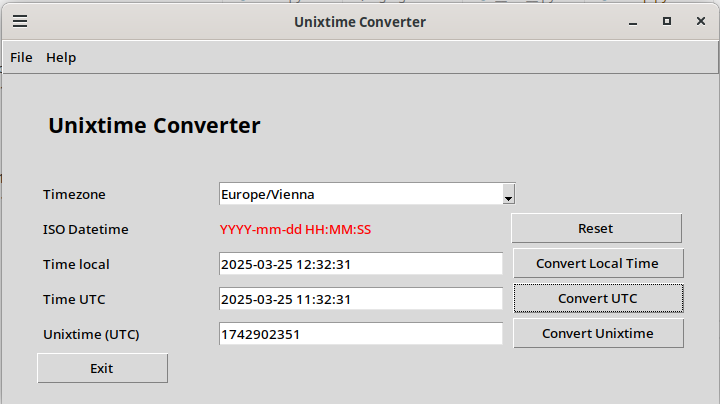
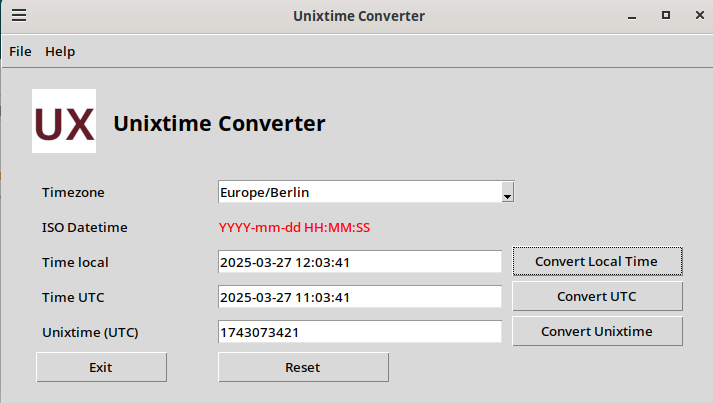
Add files via upload

diff --git a/license.html b/license.html
@@ -13,70 +13,5 @@
 
         <p>THE SOFTWARE IS PROVIDED “AS IS”, WITHOUT WARRANTY OF ANY KIND, EXPRESS OR IMPLIED, INCLUDING BUT NOT LIMITED TO THE WARRANTIES OF MERCHANTABILITY, FITNESS FOR A PARTICULAR PURPOSE AND NONINFRINGEMENT. IN NO EVENT SHALL THE AUTHORS OR COPYRIGHT HOLDERS BE LIABLE FOR ANY CLAIM, DAMAGES OR OTHER LIABILITY, WHETHER IN AN ACTION OF CONTRACT, TORT OR OTHERWISE, ARISING FROM, OUT OF OR IN CONNECTION WITH THE SOFTWARE OR THE USE OR OTHER DEALINGS IN THE SOFTWARE.</p>
 
-
-        <h4>Python Software Foundation License Version 2</h4>
-
-        <p>1. This LICENSE AGREEMENT is between the Python Software Foundation ("PSF"), and
-            the Individual or Organization ("Licensee") accessing and otherwise using this
-            software ("Python") in source or binary form and its associated documentation.</p>
-
-        <p>2. Subject to the terms and conditions of this License Agreement, PSF hereby
-            grants Licensee a nonexclusive, royalty-free, world-wide license to reproduce,
-            analyze, test, perform and/or display publicly, prepare derivative works,
-            distribute, and otherwise use Python alone or in any derivative
-            version, provided, however, that PSF's License Agreement and PSF's notice of
-            copyright, i.e., "Copyright © 2001-2024 Python Software Foundation; All Rights
-            Reserved" are retained in Python alone or in any derivative version
-            prepared by Licensee.</p>
-
-        <p>3. In the event Licensee prepares a derivative work that is based on or
-            incorporates Python or any part thereof, and wants to make the
-            derivative work available to others as provided herein, then Licensee hereby
-            agrees to include in any such work a brief summary of the changes made to Python.</p>
-
-        <p>4. PSF is making Python available to Licensee on an "AS IS" basis.
-            PSF MAKES NO REPRESENTATIONS OR WARRANTIES, EXPRESS OR IMPLIED.  BY WAY OF
-            EXAMPLE, BUT NOT LIMITATION, PSF MAKES NO AND DISCLAIMS ANY REPRESENTATION OR
-            WARRANTY OF MERCHANTABILITY OR FITNESS FOR ANY PARTICULAR PURPOSE OR THAT THE
-            USE OF PYTHON WILL NOT INFRINGE ANY THIRD PARTY RIGHTS.</p>
-
-        <p>5. PSF SHALL NOT BE LIABLE TO LICENSEE OR ANY OTHER USERS OF PYTHON
-            FOR ANY INCIDENTAL, SPECIAL, OR CONSEQUENTIAL DAMAGES OR LOSS AS A RESULT OF
-            MODIFYING, DISTRIBUTING, OR OTHERWISE USING PYTHON, OR ANY DERIVATIVE
-            THEREOF, EVEN IF ADVISED OF THE POSSIBILITY THEREOF.</p>
-
-        <p>6. This License Agreement will automatically terminate upon a material breach of
-            its terms and conditions.</p>
-
-        <p>7. Nothing in this License Agreement shall be deemed to create any relationship
-            of agency, partnership, or joint venture between PSF and Licensee.  This License
-            Agreement does not grant permission to use PSF trademarks or trade name in a
-            trademark sense to endorse or promote products or services of Licensee, or any
-            third party.</p>
-
-        <p>
-            8. By copying, installing or otherwise using Python, Licensee agrees
-               to be bound by the terms and conditions of this License Agreement.</p>
-
-        <h4>Tk license  attribution</h4>
-
-        <p>This software is copyrighted by the Regents of the University of California, Sun Microsystems, Inc., Scriptics Corporation, ActiveState Corporation, Apple Inc. and other parties. The following terms apply to all files associated with the software unless explicitly disclaimed in individual files.</p>
-    
-        <p>The authors hereby grant permission to use, copy, modify, distribute, and license this software and its documentation for any purpose, provided that existing copyright notices are retained in all copies and that this notice is included verbatim in any distributions. No written agreement, license, or royalty fee is required for any of the authorized uses. Modifications to this software may be copyrighted by their authors and need not follow the licensing terms described here, provided that the new terms are clearly indicated on the first page of each file where they apply.</p>
-
-        <p>IN NO EVENT SHALL THE AUTHORS OR DISTRIBUTORS BE LIABLE TO ANY PARTY FOR DIRECT, INDIRECT, SPECIAL, INCIDENTAL, OR CONSEQUENTIAL DAMAGES ARISING OUT OF THE USE OF THIS SOFTWARE, ITS DOCUMENTATION, OR ANY DERIVATIVES THEREOF, EVEN IF THE AUTHORS HAVE BEEN ADVISED OF THE POSSIBILITY OF SUCH DAMAGE.</p>
-
-        <p>THE AUTHORS AND DISTRIBUTORS SPECIFICALLY DISCLAIM ANY WARRANTIES, INCLUDING, BUT NOT LIMITED TO, THE IMPLIED WARRANTIES OF MERCHANTABILITY, FITNESS FOR A PARTICULAR PURPOSE, AND NON-INFRINGEMENT. THIS SOFTWARE IS PROVIDED ON AN “AS IS” BASIS, AND THE AUTHORS AND DISTRIBUTORS HAVE NO OBLIGATION TO PROVIDE MAINTENANCE, SUPPORT, UPDATES, ENHANCEMENTS, OR MODIFICATIONS.</p>
-
-        <p>GOVERNMENT USE: If you are acquiring this software on behalf of the U.S. government, the Government shall have only “Restricted Rights” in the software and related documentation as defined in the Federal Acquisition Regulations (FARs) in Clause 52.227.19 (c) (2). If you are acquiring the software on behalf of the Department of Defense, the software shall be classified as “Commercial Computer Software” and the Government shall have only “Restricted Rights” as defined in Clause 252.227-7013 (b) (3) of DFARs. Notwithstanding the foregoing, the authors grant the U.S. Government and others acting in its behalf permission to use and distribute the software in accordance with the terms specified in this license.</p>
-
-        <h4>pytz</h4>
-
-        <p>Provided by the MIT license</p>
-
-        <h4>tkhtmlview</h4>
-
-        <p>Provided by the MIT license</p>
-
     </body
 </html>

diff --git a/setup.py b/setup.py
@@ -3,36 +3,36 @@ from setuptools import setup
 
 setup(
     name='unixtime-converter',
-    version='1.0.3',
+    version='1.0.4',
     author='Franz Wiesinger',
     author_email='py@roadrunnerserver.com',
     description='application for converting local time or UTC into Unixtime \
         and viceversa',
     url='https://docs.roadrunnerserver.com/unixtime/html/index.html',
-    license='MIT license',
+    # license_files=('LICENSE.md'),
     packages=[
         'res',
         'tests'
     ],
     install_requires=[
-        'datetime', 'tkinter', 'pytz', 'zoneinfo', 'tkhtmlview'
+        'datetime', 'pytz', 'tkhtmlview'
     ],
-    python_requires='> 3.7',
+    python_requires='>= 3.9',
     entry_points={
-        'console_scripts': [
+        'gui_scripts': [
             'unixtime = unixtime.__main__:unixtime'
         ]
     },
     classifiers=[
+        'Development Status :: 5 - Production/Stable',
         'Environment :: X11 Applications',
         'Environment :: Win32 (MS Windows)',
         'Intended Audience :: Customer Service',
         'Intended Audience :: Developers',
         'Intended Audience :: System Administrators',
         'Intended Audience :: Information Technology',
-        'License :: OSI Approved :: MIT License',
         'Natural Language :: English',
-        'Programming Language :: Python :: 3.0',
+        'Programming Language :: Python :: 3',
         'Topic :: Desktop Environment',
         'Topic :: Software Development',
         'Topic :: Utilities'

diff --git a/LICENSE.md b/LICENSE.md
@@ -1,0 +1,7 @@
+Copyright (c) 2025 Wiesinger Franz (roadrunnerserver.com)  
+        
+Permission is hereby granted, free of charge, to any person obtaining a copy of this software and associated documentation files (the “Software”), to deal in the Software without restriction, including without limitation the rights to use, copy, modify, merge, publish, distribute, sublicense, and/or sell copies of the Software, and to permit persons to whom the Software is furnished to do so, subject to the following conditions:  
+  
+The above copyright notice and this permission notice shall be included in all copies or substantial portions of the Software.  
+  
+THE SOFTWARE IS PROVIDED “AS IS”, WITHOUT WARRANTY OF ANY KIND, EXPRESS OR IMPLIED, INCLUDING BUT NOT LIMITED TO THE WARRANTIES OF MERCHANTABILITY, FITNESS FOR A PARTICULAR PURPOSE AND NONINFRINGEMENT. IN NO EVENT SHALL THE AUTHORS OR COPYRIGHT HOLDERS BE LIABLE FOR ANY CLAIM, DAMAGES OR OTHER LIABILITY, WHETHER IN AN ACTION OF CONTRACT, TORT OR OTHERWISE, ARISING FROM, OUT OF OR IN CONNECTION WITH THE SOFTWARE OR THE USE OR OTHER DEALINGS IN THE SOFTWARE.

diff --git a/README.md b/README.md
@@ -9,7 +9,7 @@ it can be used and downloaded by everybody. Unixtime is mainly used in the IT.
 
 ## Installation/Setup
 
-Currently the setup is only tested on linuxbased os with python3 minimumversion 3.7.
+Currently the setup is only tested on linuxbased os with python3 minimumversion 3.9
 To start the setup use pip:
 
     pip install Unixtime-converter

diff --git a/changes.rst b/changes.rst
@@ -1,4 +1,15 @@
 ==================
+Version 1.0.4
+==================
+
+added logo to the view
+added icon
+added an icon and link for the startmenu
+moved reset button to the last row of the grid
+added license.md which is needed for the buildprocess
+
+
+==================
 Version 1.0.3
 ==================
 
